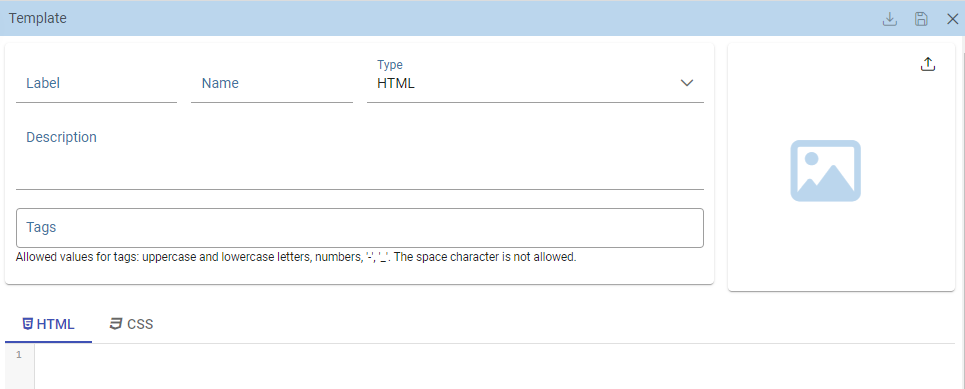
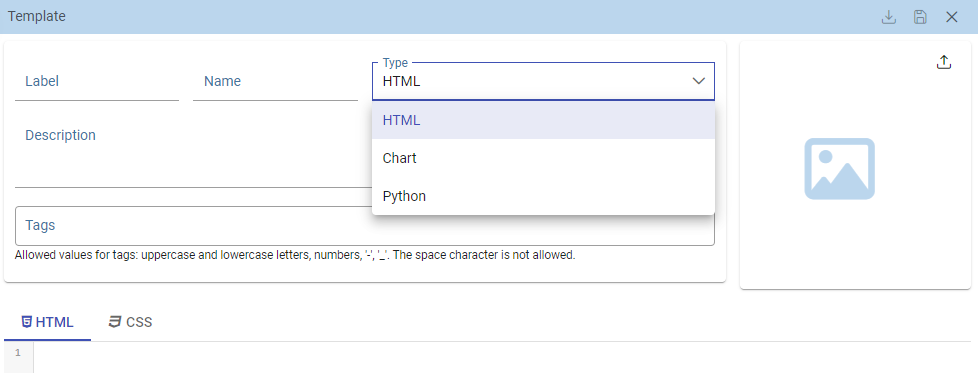
changes to widget contents

diff --git a/chapter_4/widget_gallery.rst b/chapter_4/widget_gallery.rst
@@ -16,14 +16,14 @@ Gallery management
 -------------------
 
 To open the *Gallery Management*, select **Gallery Management** from the *CATALOGS* option of the Knowage main menu.
-The first step consists in creating a template gallery or in importing a template already available.
+The first step consists in creating a new template or in importing a template already available.
 
 
 .. figure:: media/image2_8.1.png
 
     Gallery management example.
 
-The image below, shows the information to be filled in when adding a new template
+The image below, shows the information to be filled in when adding a new template.
 
 
 .. figure:: media/newTemplate_8.1.png
@@ -37,27 +37,25 @@ A **Template** is a json file containing a collection of properties describing t
 
 The following fields will be present:
 
--   **Name**: Mandatory. The name of the widget template
--   **Type**: Mandatory. The widget type.
--   **Output type**: Available for the python widget only. Will set the output type of the python code.
--   **Description**: Optional. The description of the widget template, will be visible as a tooltip on the dashboard selection.
--   **Tags**: Optional. A list of unique tags to easily categorize templates. It's possible to search using tags too. Allowed values for tags are uppercase and lowercase letters, numbers, '-', '_'. The space character is not allowed.
--   **Image**: Optional. The image of the widget that will be shown on the dashboard selection. Maximum image size is 200k.
--   **Code section**: Mandatory. The code editor.
+-   **Name**: Mandatory information, representing the name of the widget template
+-   **Type**: Mandatory information, specifying the widget type. As shown in the above image, there are three available types
+-   **Output type**: only for Python widgets: HTML or Image values available.
+-   **Description**: Optional information that will be visible as a tooltip on the dashboard selection.
+-   **Tags**: Optional information, consisting in a list of unique tags to easily categorize templates. Search functionality using tags too. Allowed values for tags are uppercase and lowercase letters, numbers, '-', '_' whereas the space character is not allowed.
+-   **Image**: Optional information, representing the image of the widget that will be shown on the dashboard selection. The maximum image size is 200k.
+-   **Code section**: Mandatory information, representing the code to be written in the editor box.
 
-Depending on the type of widget selected the availabe editors will change in this way:
-
-- **HTML widget**: HTML, CSS editors
-- **Custom chart widget**: HTML, CSS and JS editor
-- **Python widget**: Python code editor
+Editors will look like different, depending on the type of widget:
+- **HTML **: HTML, CSS editors
+- **Chart**: HTML, CSS and JS editor
+- **Python**: Python code editor
 
 .. figure:: media/image1.png
 
     Selected widget template.
 
-To save the template it's possible to click on the top right toolbar on the *save* button. If save button is disabled one or more mandatory fields are empty or invalid.
-It's also possible to export the single template selected or simply to close the page and choose another one.
-
+Use the *Save* icon to save the template.
+It's also possible to export a single template-
 .. figure:: media/image3.png
 
     Toolbar icons.
@@ -65,19 +63,19 @@ It's also possible to export the single template selected or simply to close the
 Dashboard gallery
 ---------------------------
 
-Inside the cockpit or dashboard functionality, a new tab will be present when creating a new widget of the available types.
+Inside a cockpit or the dashboard functionality, a new tab will be present when creating a new widget.
 
 .. figure:: media/image4.png
 
     New widget templates list.
 
-This tab will not be available when no template is defined and if the widget is opened after it's first saving.
+This tab will not be available when no template is defined and if the widget is opened after its first saving.
 
-The first template will always be the "empty" one, in order to allow users to create a custom widget without starting from a template.
-The other templates will be available after the empty one and will show the image, the tags set by the editor and, when hovering, the description of the template.
+The first template will always be empty, in order to allow users to create a custom widget without starting from a template.
+After the empty template, some other templates will be available showing the associate image, the tags formerly set and when hovering, the description of the template.
 
-Clicking on an item, the code set in the gallery management will be copied in the new widget template, preparing the widget for ultimate customizations.
-The user will just need to link dynamic data or change specific css section to create the desired widget.
+Clicking on an item, the code set in the gallery management will be copied in the new widget template, to allow the customization of the widget.
+The user just needs to link the dynamic data or change some css code to create the desired widget.
 
 .. figure:: media/image5.png
 
